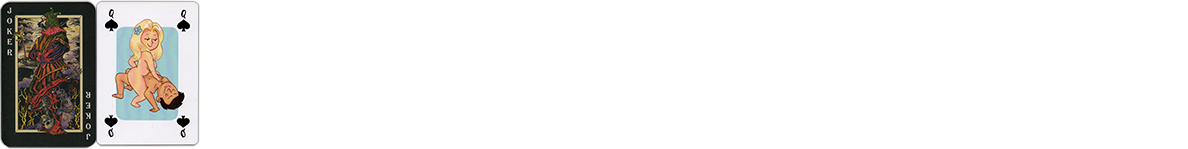
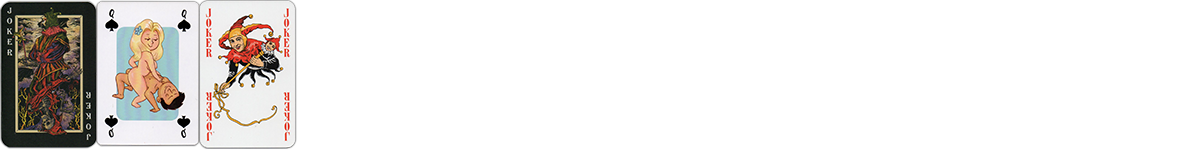
feat(Playing cards): add new cards

diff --git a/src/app/data/translations/ru.ts b/src/app/data/translations/ru.ts
@@ -646,7 +646,7 @@ export const ru: TranslatedStrings = {
       p2: 'Не ставлю себе задачу собрать очень много и всё подряд, поэтому коллекция не очень \
 большая и насчитывает на данный момент более 100 колод. Собираю именно те, \
 которые понравились.',
-      imgTitle: 'По одной карте из каждой колоды (кликабельно). Август 2023',
+      imgTitle: 'По одной карте из каждой колоды (кликабельно). Февраль 2024',
     },
   },
   Poland: {

diff --git a/src/app/components/item-pages/PlayingCardsPage/index.tsx b/src/app/components/item-pages/PlayingCardsPage/index.tsx
@@ -917,6 +917,15 @@ const PlayingCardsPage: React.FunctionComponent<ItemPageProps> = ({className, it
               height={149}
               imgs={playingCards9Imgs}
             />
+            <PlayingCard
+              href="https://www.piatnik.com/en/games/playing-cards/design-and-gift/picasso"
+              title="Picasso"
+              x={200}
+              y={0}
+              width={97}
+              height={149}
+              imgs={playingCards9Imgs}
+            />
 
             {/* unusual */}
             <PlayingCard

diff --git a/src/app/data/translations/en.ts b/src/app/data/translations/en.ts
@@ -557,7 +557,7 @@ export const en: TranslatedStrings = {
       p2: 'There is no purpose to gather everything from everywhere, \
 so the collection is not so big and contains more than 100 decks today. \
 Collecting those which I really like.',
-      imgTitle: 'One card from each deck (clickable). August 2023',
+      imgTitle: 'One card from each deck (clickable). February 2024',
     },
   },
   Poland: {
